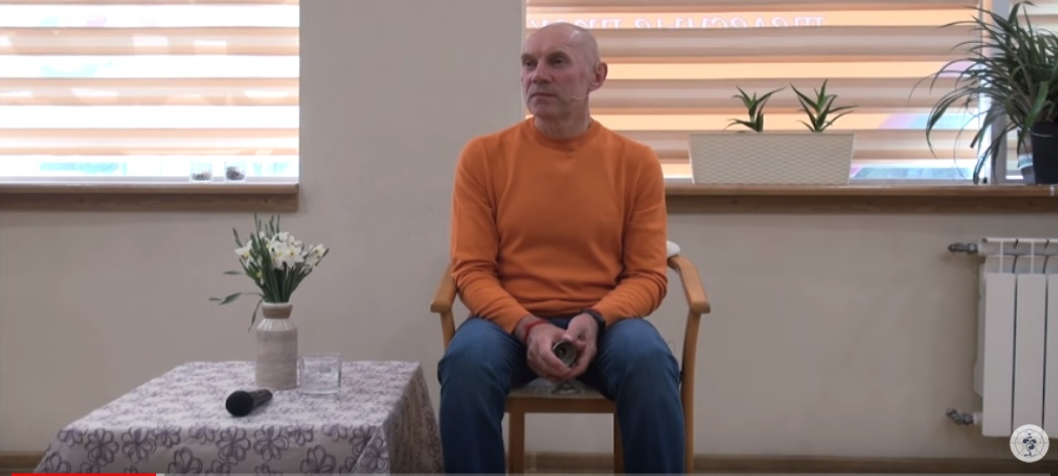
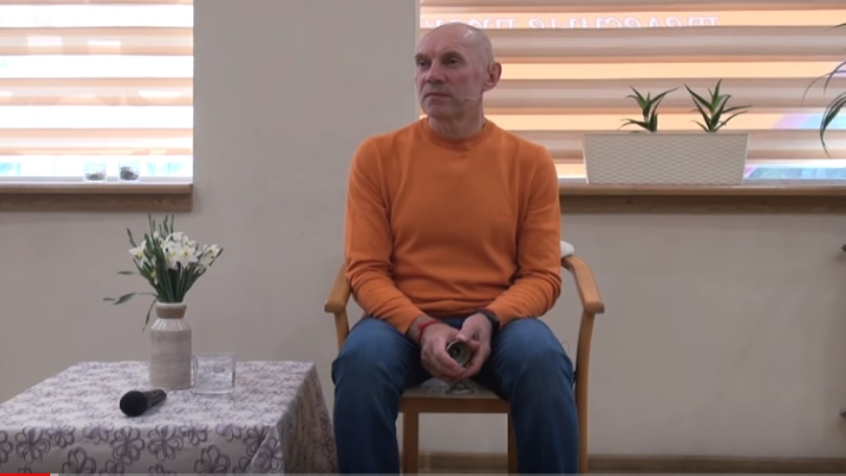
Видео 16:9 и другие небольшие правки

diff --git a/src/index.html b/src/index.html
@@ -26,12 +26,13 @@
 			<svg><use xlink:href="/img/social-dark.svg#youtube-dark"></use></svg>
 		</a>
 	</div>
-	<div class="one-half column like_top">Мне нравится Нисарга</div>
+	<div class="one-half column like_top"><span>Мне нравится Нисарга</span>
+		<iframe src="https://www.facebook.com/plugins/like.php?href=https%3A%2F%2Fwww.facebook.com%2Fnisargacenter%2F&width=123&layout=button_count&action=like&size=small&share=false&height=21&appId" width="123" height="21" style="border:none;overflow:hidden" scrolling="no" frameborder="0" allowTransparency="true" allow="encrypted-media"></iframe>
+	</div>
 </header>
 
 <div id="top_block">
 	<img src="img/logo.svg" class="logo_top" alt="Логотип">
-
 </div>
 
 <nav id="top_menu" class="menu">
@@ -62,8 +63,8 @@
 				<h3>Зеркало подсознания</h3>
 				<span class="events_date">29 февраля 2020</span>
 				<span class="events_city">Ярославль</span>
-				<a href="#">Подробнее</a>
-				<a href="#">Заполнить анкету</a>
+				<a href="#"><span>Подробнее</span></a>
+				<a href="#"><span>Заполнить анкету</span></a>
 				<div class="events_imgs_block">
 					<div class="events_imgs"><img src="img/events/m1-img1.png" alt=""></div>
 					<div class="events_imgs"><img src="img/events/m1-img2.png" alt=""></div>
@@ -83,8 +84,8 @@
 				<h3>География меня</h3>
 				<span class="events_date">15 февраля 2020</span>
 				<span class="events_city">Киев</span>
-				<a href="#">Подробнее</a>
-				<a href="#">Заполнить анкету</a>
+				<a href="#"><span>Подробнее</span></a>
+				<a href="#"><span>Заполнить анкету</span></a>
 				<div class="events_imgs_block">
 					<div class="events_imgs"><img src="img/events/m2-img1.png" alt=""></div>
 					<div class="events_imgs"><img src="img/events/m2-img2.png" alt=""></div>
@@ -104,8 +105,8 @@
 				<h3>Атма Вичара</h3>
 				<span class="events_date">01-07 мая 2020</span>
 				<span class="events_city">Ярославль</span>
-				<a href="#">Подробнее</a>
-				<a href="#">Заполнить анкету</a>
+				<a href="#"><span>Подробнее</span></a>
+				<a href="#"><span>Заполнить анкету</span></a>
 				<div class="events_imgs_block">
 					<div class="events_imgs"><img src="img/events/m3-img1.png" alt=""></div>
 					<div class="events_imgs"><img src="img/events/m3-img2.png" alt=""></div>
@@ -125,7 +126,7 @@
 				<h3>Сатсанг</h3>
 				<span class="events_date">08 мая 2020</span>
 				<span class="events_city">Москва</span>
-				<a href="#">Подробнее</a>
+				<a href="#"><span>Подробнее</span></a>
 				<div class="events_imgs_block">
 					<div class="events_imgs"><img src="img/events/m4-img1.png" alt=""></div>
 					<div class="events_imgs"><img src="img/events/m4-img2.png" alt=""></div>

diff --git a/src/css/main.css b/src/css/main.css
@@ -42,7 +42,7 @@
     -o-transition: width 0.3s ease-in-out;
     transition: width 0.3s ease-in-out;
     left: 0;
-    bottom: 0; }
+    bottom: 15px; }
   #top_menu li:hover:before {
     width: -webkit-calc(100% - 60px);
     width: calc(100% - 60px);
@@ -353,6 +353,22 @@
     text-transform: uppercase;
     margin: 15px 0;
     font-size: 14px; }
+    #events_section .events_info a span {
+      position: relative; }
+      #events_section .events_info a span:before {
+        position: absolute;
+        content: '';
+        height: 1px;
+        width: 0;
+        background: #65746E;
+        -webkit-transition: width 0.3s ease-in-out;
+        -o-transition: width 0.3s ease-in-out;
+        transition: width 0.3s ease-in-out;
+        left: 0;
+        bottom: -5px; }
+      #events_section .events_info a span:hover:before {
+        width: 100%;
+        left: 0px; }
   #events_section .events_info .events_city {
     display: block;
     text-transform: uppercase;
@@ -464,10 +480,10 @@
               transform: scale(1.2); }
     @media screen and (max-width: 764px) {
       #video_section .play_video_button {
-        top: 25%;
-        width: 40px;
-        left: -webkit-calc(50% - 20px);
-        left: calc(50% - 20px); } }
+        top: 20%;
+        width: 60px;
+        left: -webkit-calc(50% - 30px);
+        left: calc(50% - 30px); } }
   #video_section h3 {
     position: absolute;
     z-index: 3;
@@ -539,6 +555,13 @@ blockquote {
   @media screen and (max-width: 764px) {
     .like_top {
       display: none; } }
+  .like_top span {
+    display: inline-block;
+    vertical-align: middle; }
+  .like_top iframe {
+    display: inline-block;
+    vertical-align: middle;
+    margin: 0 10px; }
 
 .logo_top {
   width: 90%;

diff --git a/src/sass/events.sass b/src/sass/events.sass
@@ -225,6 +225,24 @@ $break-midle: 1140px
 			margin: 15px 0
 			font-size: 14px
 
+			span
+				position: relative
+
+				&:before
+					position: absolute
+					content: ''
+					height: 1px
+					width: 0
+					background: #65746E
+					transition: width 0.3s ease-in-out
+					left: 0
+					bottom: -5px
+
+				&:hover
+					&:before
+						width: 100%
+						left: 0px
+
 		.events_city
 			display: block
 			text-transform: uppercase

diff --git a/src/sass/main.sass b/src/sass/main.sass
@@ -68,6 +68,15 @@ blockquote
 	@media screen and (max-width: $break-small)
 		display: none
 
+	span
+		display: inline-block
+		vertical-align: middle
+
+	iframe
+		display: inline-block
+		vertical-align: middle
+		margin: 0 10px
+
 .logo_top
 	width: 90%
 	max-width: 420px

diff --git a/src/sass/video.sass b/src/sass/video.sass
@@ -35,9 +35,9 @@ $break-small: 764px
 			transform: scale(1.2)
 
 		@media screen and (max-width: $break-small)
-			top: 25%
-			width: 40px
-			left: calc(50% - 20px)
+			top: 20%
+			width: 60px
+			left: calc(50% - 30px)
 
 	h3 
 		position: absolute

diff --git a/src/sass/menu.sass b/src/sass/menu.sass
@@ -29,7 +29,7 @@ $break-small: 764px
 		background: #65746E
 		transition: width 0.3s ease-in-out
 		left: 0
-		bottom: 0
+		bottom: 15px
 
 	&:hover
 		&:before
